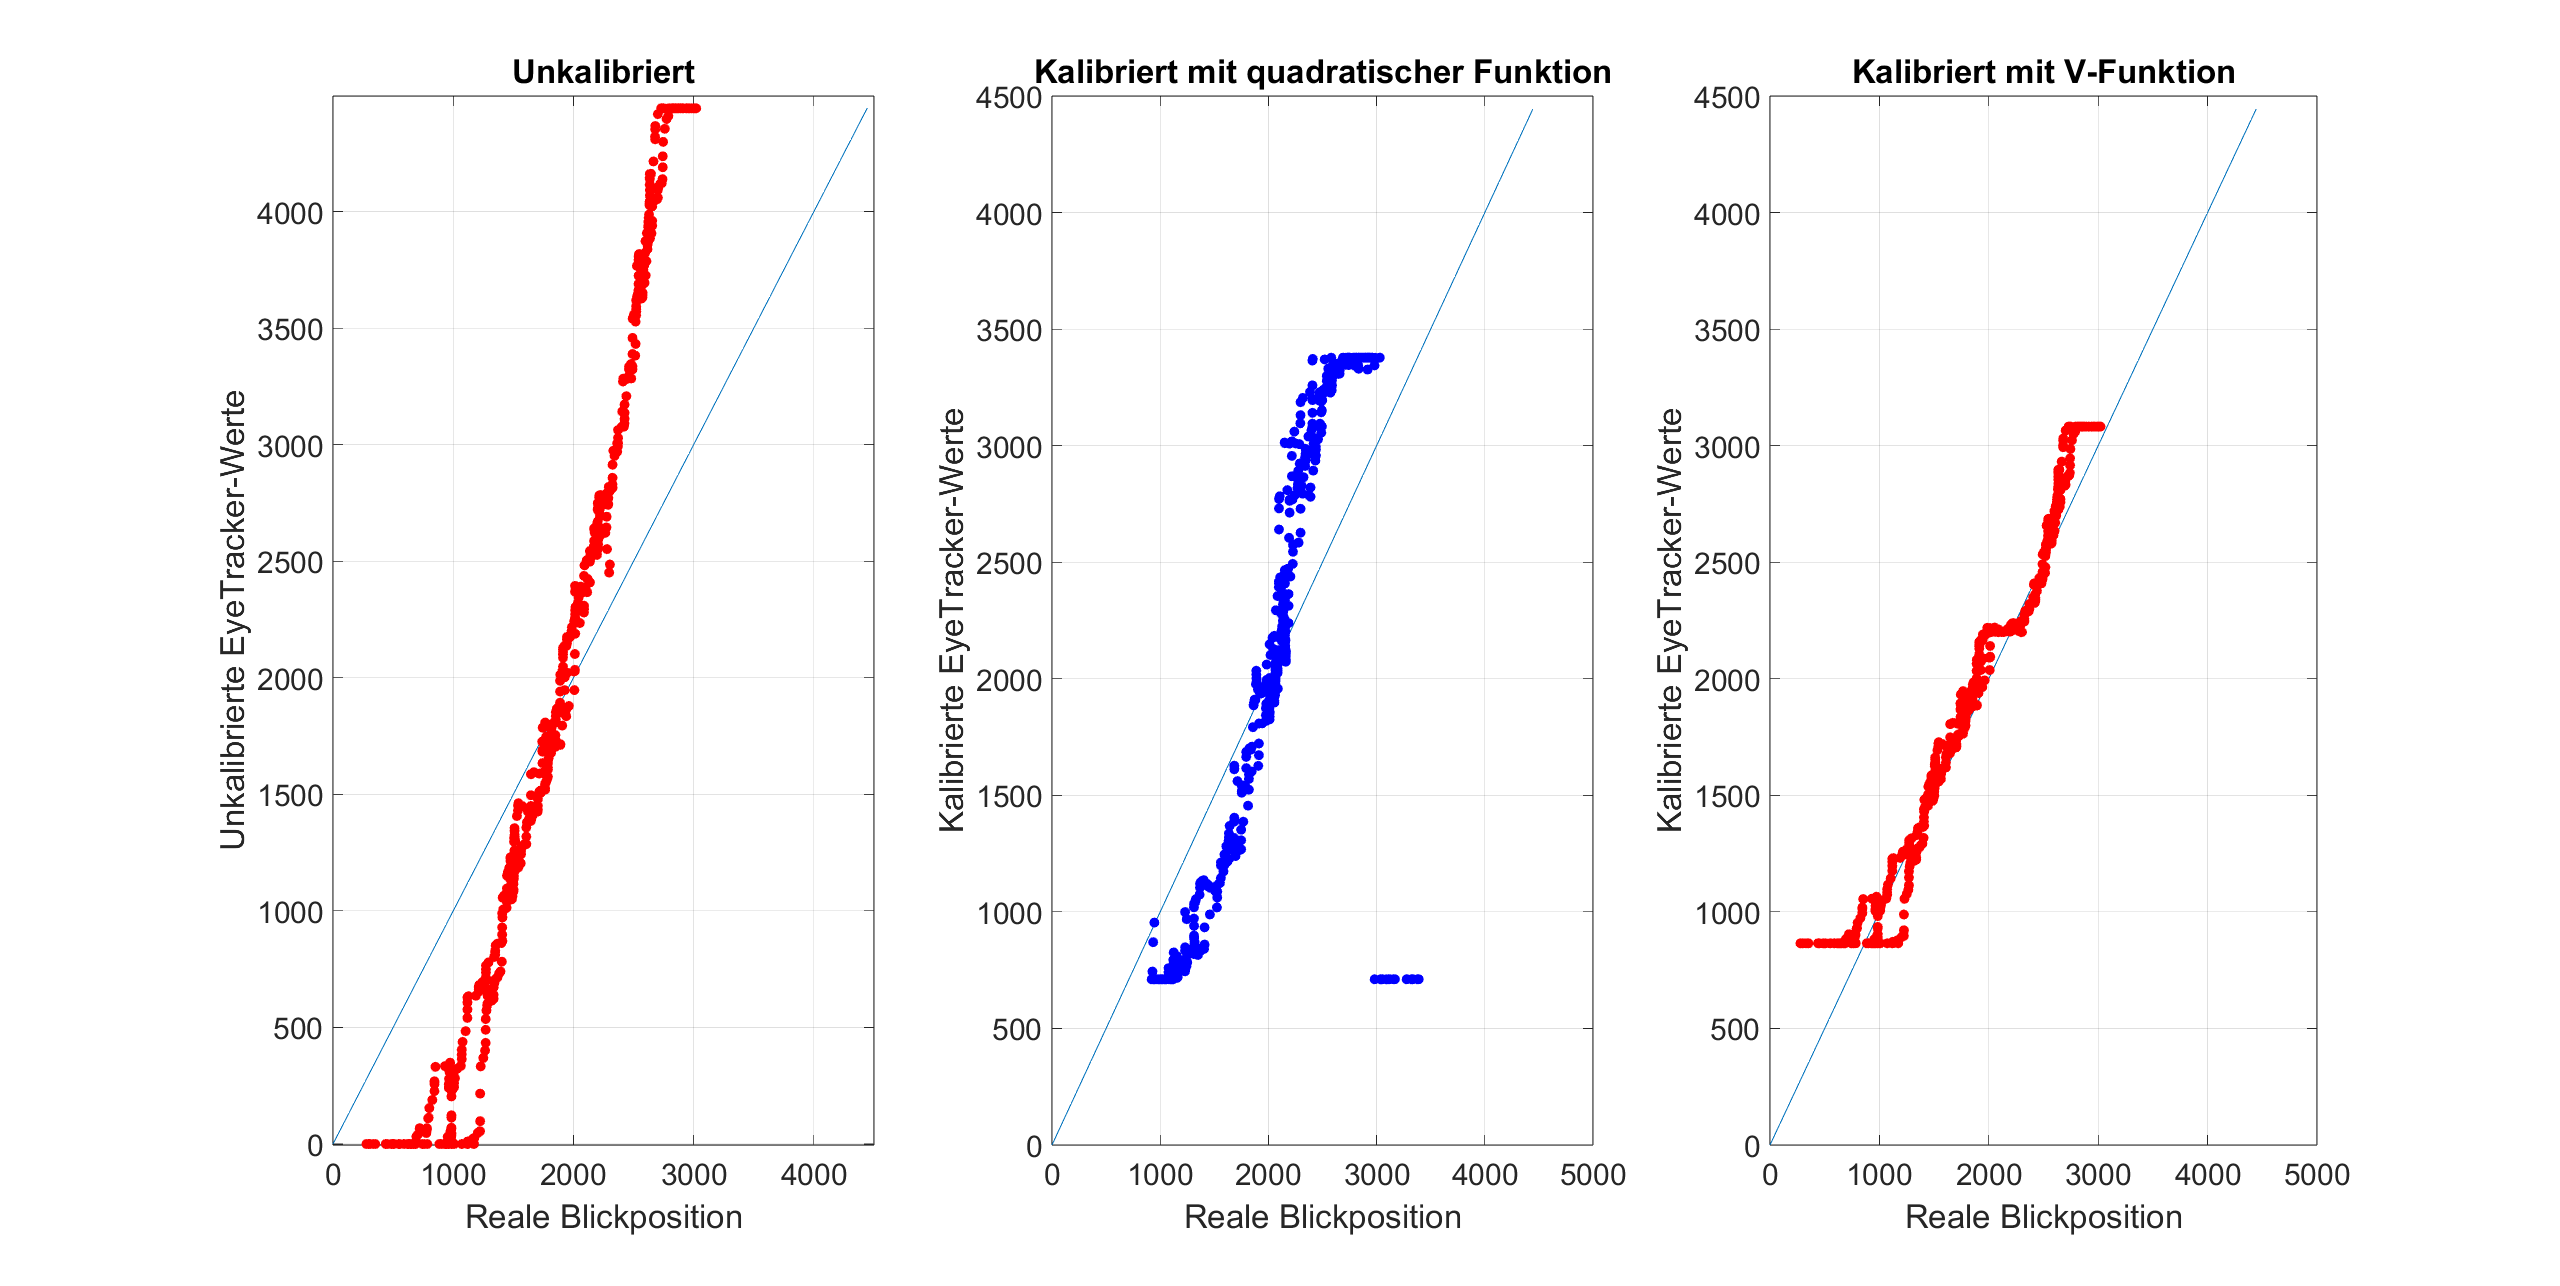
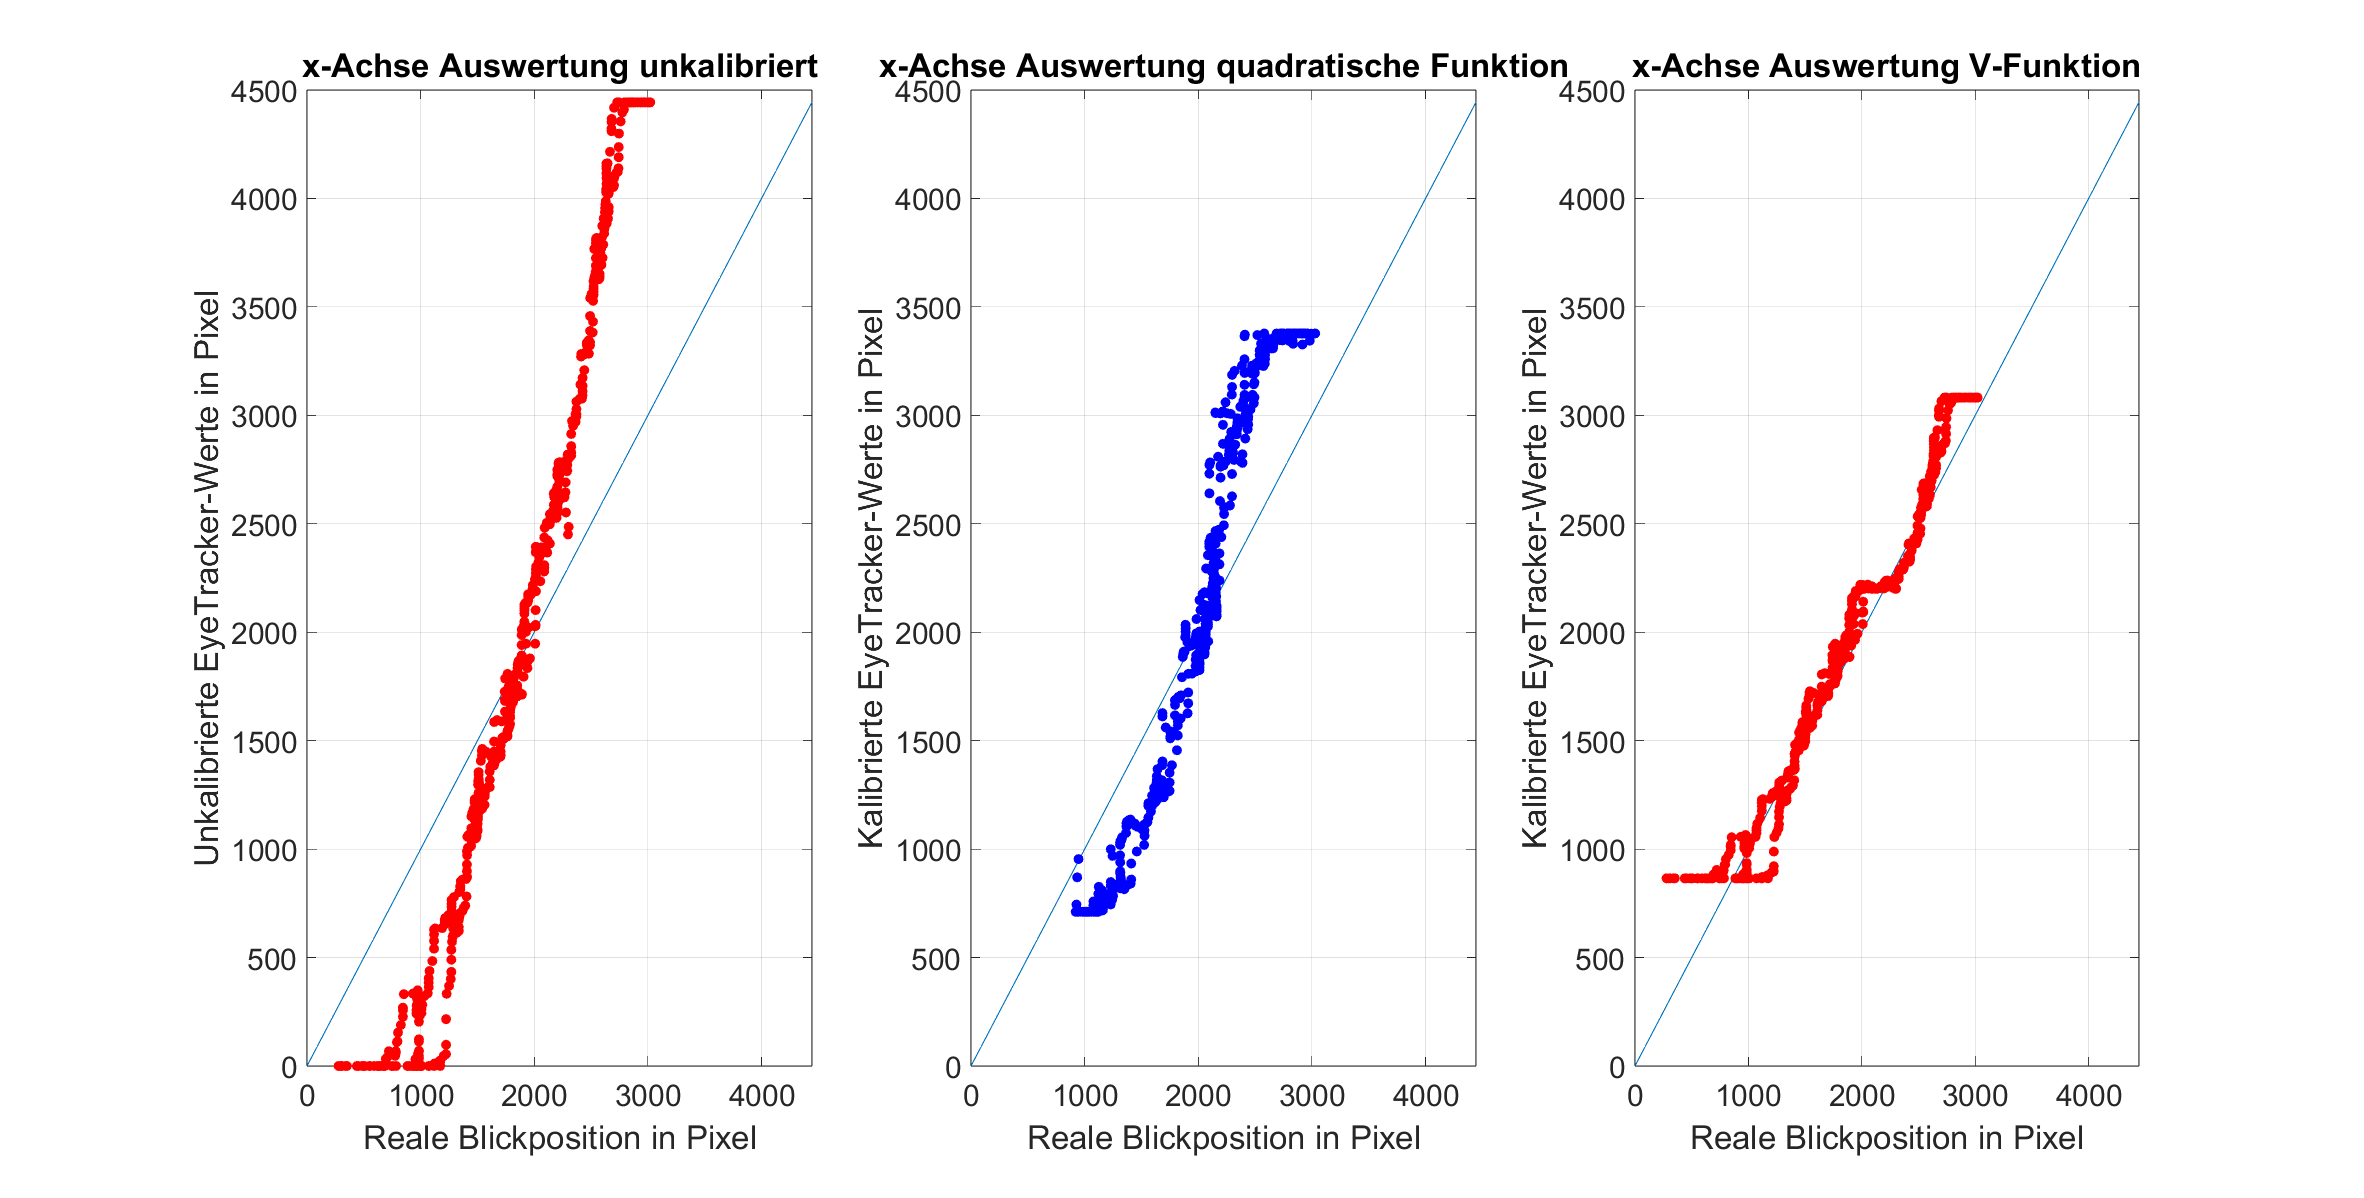
Einheitliche Achsenbeschriftungen und Graphenbeschriftungen & Matlab Skript Auswertung aufgeräumt

diff --git a/Matlab/DarstellungKorrekturfunktionen.m b/Matlab/DarstellungKorrekturfunktionen.m
@@ -1,7 +1,18 @@
+%{
+Dieses Skript zeigt die verschiedenen Korreturfunktionen. 
+%}
+
+
+%%%%%%%%%%%%%%%%%%%%%%%%%%%%%%%%%%%%%%%%%%%%%%%%%%%%%%%%%%%%%%%%%%%%%%%%%%%
+%Hier wird die erste Korrekturfunktion (aus e-Funktion basierend) graphisch
+%dargestellt.
+%%%%%%%%%%%%%%%%%%%%%%%%%%%%%%%%%%%%%%%%%%%%%%%%%%%%%%%%%%%%%%%%%%%%%%%%%%%
+
 % Parameterdefinition
 c = 0.0035; % Korrektur-Koeffizient
 k_r = 1.2; % Zusätzlicher Skalierungsfaktor für rechte Bildschirmhälfte
-middle_width = 2222; % Mitte des Bildschirms in Pixel
+middle_width = 2222; % Mitte des Bildschirms in Pixel (Basiert auf der 
+% Leinwandgröße des mittelgroßen Fahrsimulators an der HKA)
 
 % Wertebereich für die Tracking-Daten
 x = linspace(0, 4444, 4444); % Gesamter Bildschirmbereich
@@ -21,15 +32,18 @@ correction_value(x > middle_width) = ...
 figure;
 plot(x, correction_value, 'r-', 'LineWidth', 2);
 hold on;
-v_line = xline(middle_width, '--k', 'LineWidth', 1.5); % Vertikale Linie zur Markierung der Leinwandmitte
-xlabel('Horizontale Pixel Leinwand');
-ylabel('Korrekturwert');
-title('Korrekturwertfunktion basierend auf e-Funktion');
+v_line = xline(middle_width, '--k', 'LineWidth', 1.5);
+xlabel('Horizontale Pixel Leinwand', 'FontSize',14);
+ylabel('Korrekturwert in Pixel', 'FontSize',14);
+title('Korrekturwertfunktion basierend auf e-Funktion', 'FontSize',14);
 grid on;
 legend('Korrekturwert','Leinwandmmitte');
 
 
-
+%%%%%%%%%%%%%%%%%%%%%%%%%%%%%%%%%%%%%%%%%%%%%%%%%%%%%%%%%%%%%%%%%%%%%%%%%%%
+%Hier wird die zweite Korrekturfunktion (aus quadratischer-Funktion 
+%basierend) graphisch dargestellt.
+%%%%%%%%%%%%%%%%%%%%%%%%%%%%%%%%%%%%%%%%%%%%%%%%%%%%%%%%%%%%%%%%%%%%%%%%%%%
 
 % Parameterdefinition
 c = 0.012;              % Korrektur-Koeffizient
@@ -54,15 +68,19 @@ correction_value(x > middle_width) = ...
 figure;
 plot(x, correction_value, 'r-', 'LineWidth', 2);
 hold on;
-v_line = xline(middle_width, '--k', 'LineWidth', 1.5); % Vertikale Linie zur Markierung der Leinwandmitte
-xlabel('Horizontale Pixel Leinwand');
-ylabel('Korrekturwert');
-title('Korrekturwertfunktion basierend auf quadratischer Funktion');
+% Vertikale Linie zur Markierung der Leinwandmitte
+v_line = xline(middle_width, '--k', 'LineWidth', 1.5); 
+xlabel('Horizontale Pixel Leinwand', 'FontSize',14);
+ylabel('Korrekturwert in Pixel', 'FontSize',14);
+title('Korrekturwertfunktion basierend auf quadratischer Funktion', 'FontSize',14);
 grid on;
 legend('Korrekturwert','Leinwandmmitte');
 
 
-
+%%%%%%%%%%%%%%%%%%%%%%%%%%%%%%%%%%%%%%%%%%%%%%%%%%%%%%%%%%%%%%%%%%%%%%%%%%%
+%Hier wird die dritte Korrekturfunktion (aus V-Funktion 
+%basierend) graphisch dargestellt.
+%%%%%%%%%%%%%%%%%%%%%%%%%%%%%%%%%%%%%%%%%%%%%%%%%%%%%%%%%%%%%%%%%%%%%%%%%%%
 
 % Parameterdefinition
 c = 0.03; % Korrektur-Koeffizient für linke Seite
@@ -102,9 +120,9 @@ correction_value(x > middle_width) = ...
 figure;
 plot(x, correction_value, 'r-', 'LineWidth', 2);
 hold on;
-v_line = xline(middle_width, '--k', 'LineWidth', 1.5); % Vertikale Linie zur Markierung der Leinwandmitte
-xlabel('Horizontale Pixel Leinwand');
-ylabel('Korrekturwert');
-title('Korrekturwertfunktion basierend auf V-Funktion');
+v_line = xline(middle_width, '--k', 'LineWidth', 1.5); 
+xlabel('Horizontale Pixel Leinwand', 'FontSize',14);
+ylabel('Korrekturwert in Pixel', 'FontSize',14);
+title('Korrekturwertfunktion basierend auf V-Funktion', 'FontSize',14);
 grid on;
 legend('Korrekturwert','Leinwandmmitte');

diff --git a/Matlab/EyeTrackerAuswertung.m b/Matlab/EyeTrackerAuswertung.m
@@ -99,13 +99,11 @@ for i=1:length(str)
     i=i+1;
 end
 
-dif_mean_alt_y_unkalibriert = summe_dif/numel(maus_y_alt);
-
 %%%%%%%%%%%%%%%%%%%%%%%%%%%%%%%%%%%%%%%%%%%%%%%%%%%%%%%%%%%%%%%%%%%%%%%%%%%
 %Hier findet die Darstellung der Ergebnisse für die y-Achse statt
 %%%%%%%%%%%%%%%%%%%%%%%%%%%%%%%%%%%%%%%%%%%%%%%%%%%%%%%%%%%%%%%%%%%%%%%%%%%
 
-% Plot für y-Achse Maus unkalibriert 
+% Plot für y-Achse 
 
 figure;
 x_ideal = linspace(0,1080);
@@ -113,9 +111,10 @@ y_ideal = x_ideal;
 plot(x_ideal, y_ideal);
 hold on
 scatter(maus_y, kalibriert_y, "r", "filled");
-xlabel('Reale Blickposition');
-ylabel('Kalibrierte EyeTracker-Werte');
-title('Kalibriert mit V-Funktion');
+xlabel('Reale Blickposition in Pixel','FontSize',18);
+ylabel('EyeTracker-Werte in Pixel','FontSize',18);
+title('y-Achse Auswertung','FontSize',18);
+set(gca, 'FontSize', 18);
 grid on;
 
 % Berechnung des durchschnittlichen Fehlers 
@@ -142,9 +141,10 @@ y_ideal = x_ideal;
 plot(x_ideal, y_ideal);
 hold on
 scatter(maus_x_alt, unkalibriert_x_alt, 'b' ,"filled");
-xlabel('Reale Blickposition');
-ylabel('Unkalibrierte EyeTracker-Werte');
-title('Gegenüberstellung reale Blickposition und unkalibrierte EyeTracker-Werte');
+xlabel('Reale Blickposition in Pixel','FontSize',18);
+ylabel('Unkalibrierte EyeTracker-Werte in Pixel','FontSize',18);
+title('x-Achse Auswertung unkalibriert','FontSize',18);
+set(gca, 'FontSize', 18);
 grid on;
 
 
@@ -156,9 +156,10 @@ y_ideal = x_ideal;
 plot(x_ideal, y_ideal);
 hold on
 scatter(maus_x_alt, kalibriert_x_alt, 'b' ,"filled");
-xlabel('Reale Blickposition');
-ylabel('Kalibrierte EyeTracker-Werte');
-title('Gegenüberstellung reale Blickposition und kalibrierte EyeTracker-Werte');
+xlabel('Reale Blickposition in Pixel','FontSize',18);
+ylabel('Kalibrierte EyeTracker-Werte in Pixel','FontSize',18);
+title('x-Achse Auswertung kalibriert','FontSize',18);
+set(gca, 'FontSize', 18);
 grid on;
 
 
@@ -171,9 +172,10 @@ y_ideal = x_ideal;
 plot(x_ideal, y_ideal);
 hold on
 scatter(maus_x, unkalibriert_x, 'r', 'filled');
-xlabel('Reale Blickposition');
-ylabel('Unkalibrierte EyeTracker-Werte');
-title('Unkalibriert');
+xlabel('Reale Blickposition in Pixel','FontSize',18);
+ylabel('Unkalibrierte EyeTracker-Werte in Pixel','FontSize',18);
+title('x-Achse Auswertung unkalibriert','FontSize',18);
+set(gca, 'FontSize', 18);
 grid on;
 
 summe_dif = 0;
@@ -203,9 +205,10 @@ y_ideal = x_ideal;
 plot(x_ideal, y_ideal);
 hold on
 scatter(maus_x_alt, kalibriert_x_alt, 'b', 'filled');
-xlabel('Reale Blickposition');
-ylabel('Kalibrierte EyeTracker-Werte');
-title('Kalibriert mit quadratischer Funktion');
+xlabel('Reale Blickposition in Pixel','FontSize',18);
+ylabel('Kalibrierte EyeTracker-Werte in Pixel','FontSize',18);
+title('x-Achse Auswertung quadratische Funktion','FontSize',18);
+set(gca, 'FontSize', 18);
 grid on;
 
 summe_dif = 0;
@@ -231,9 +234,10 @@ y_ideal = x_ideal;
 plot(x_ideal, y_ideal);
 hold on
 scatter(maus_x, kalibriert_x, 'r','filled');
-xlabel('Reale Blickposition');
-ylabel('Kalibrierte EyeTracker-Werte');
-title('Kalibriert mit V-Funktion');
+xlabel('Reale Blickposition in Pixel','FontSize',18);
+ylabel('Kalibrierte EyeTracker-Werte in Pixel','FontSize',18);
+title('x-Achse Auswertung V-Funktion','FontSize',18);
+set(gca, 'FontSize', 18);
 grid on;
 
 summe_dif = 0;

diff --git a/Vorlage aus HKA Cloud/mainmatter/Auswertung.tex b/Vorlage aus HKA Cloud/mainmatter/Auswertung.tex
@@ -4,7 +4,7 @@
 
 \begin{figure}[h!]
 	\begin{center}
-		\includegraphics[scale=0.25]{second_correction_function_results_andold}
+		\includegraphics[scale=0.24]{second_correction_function_results_andold}
 		\caption{Gegenüberstellung reale Blickposition und Eye Tracker-Werte: unkalibriert (links), kalibriert quadratische Funktion (mitte), kalibriert V-Funktion (rechts), Quelle: \cite{lit_software_matlab}} \label{fig:imag12}
 	\end{center}
 \end{figure}
@@ -31,8 +31,8 @@ Die Ergebnisse zeigen, dass mit der V-Funktion bessere Ergebnisse erzielt werden
 
 \begin{figure}[h!]
 	\begin{center}
-		\includegraphics[scale=0.19]{second_correction_function_results_y}
-		\caption{Gegenüberstellung reale Blickposition und Eye Tracker-Werte y-Achse kalibriert, Quelle: \cite{lit_software_matlab}} \label{fig:imag13}
+		\includegraphics[scale=0.3]{second_correction_function_results_y}
+		\caption{Gegenüberstellung reale Blickposition und Eye Tracker-Werte y-Achse, Quelle: \cite{lit_software_matlab}} \label{fig:imag13}
 	\end{center}
 \end{figure}
 

diff --git a/Vorlage aus HKA Cloud/mainmatter/Implementation.tex b/Vorlage aus HKA Cloud/mainmatter/Implementation.tex
@@ -138,6 +138,6 @@ In Abbildung \ref{fig:carla_hud_2} sind die textbasierten Daten aus Anzeigeeleme
 \begin{figure}[h!]
 	\begin{center}
 		\includegraphics[scale=1]{carla_hud_2}
-		\caption{Darstellung textbasierten Daten in Carla, Quelle: \cite{lit_software_carla}, \cite{lit_software_canva}} \label{fig:carla_hud_2}
+		\caption{Darstellung der textbasierten Daten in Carla, Quelle: \cite{lit_software_carla}, \cite{lit_software_canva}} \label{fig:carla_hud_2}
 	\end{center}
 \end{figure}

diff --git a/Vorlage aus HKA Cloud/mainmatter/Concept.tex b/Vorlage aus HKA Cloud/mainmatter/Concept.tex
@@ -17,7 +17,7 @@ Zwischenzeitlich wurde im Rahmen dieser Projektarbeit auch der Ansatz einer eige
 
 \begin{figure}[h]
 	\begin{center}
-		\begin{tikzpicture}[scale=0.9]
+		\begin{tikzpicture}[scale=1]
 			% Fensterhintergrund
 			\draw[fill=gray!20] (0,0) rectangle (8,6);
 			
